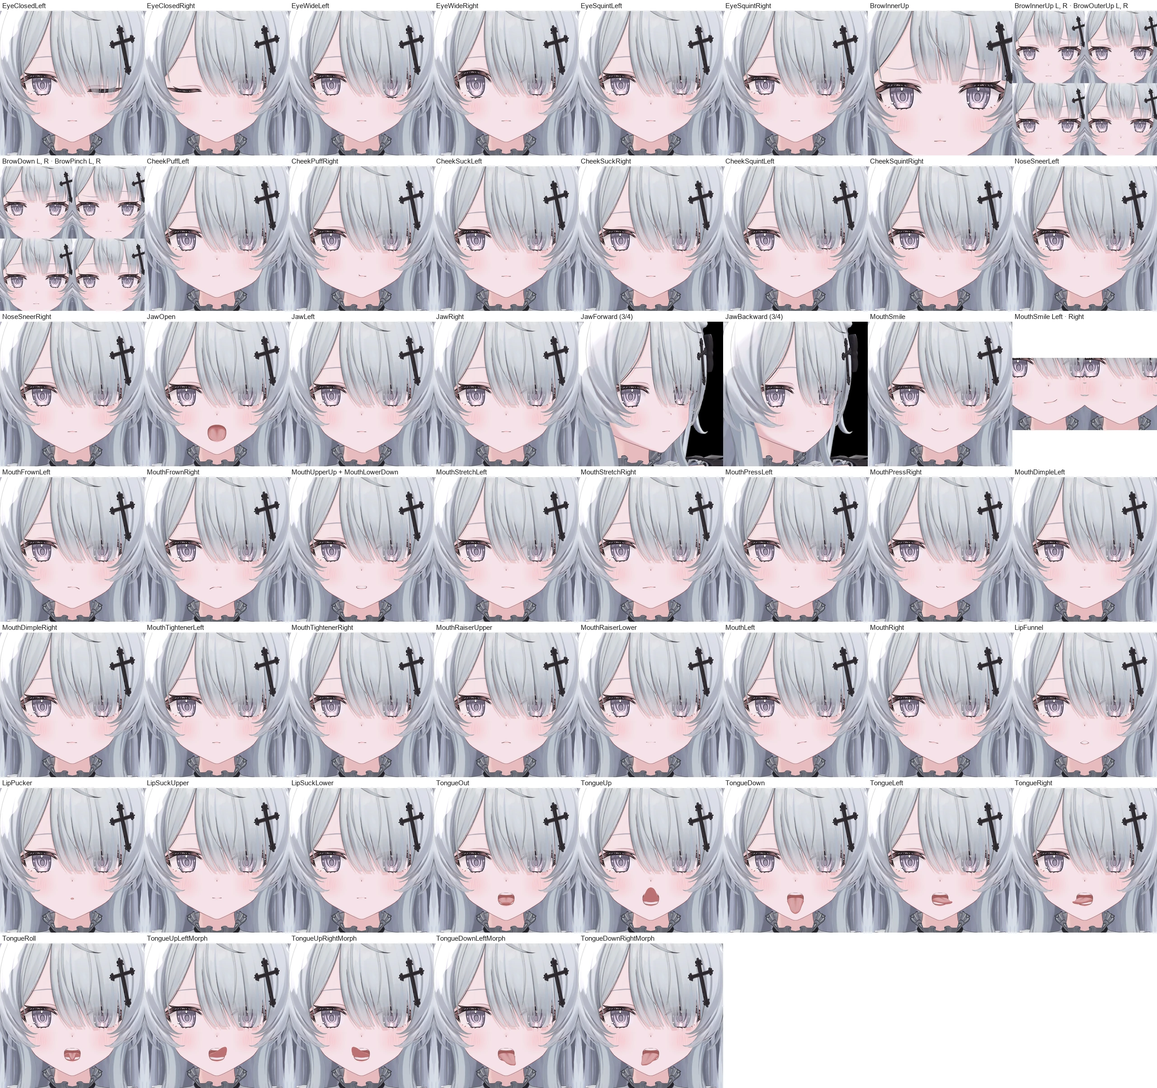
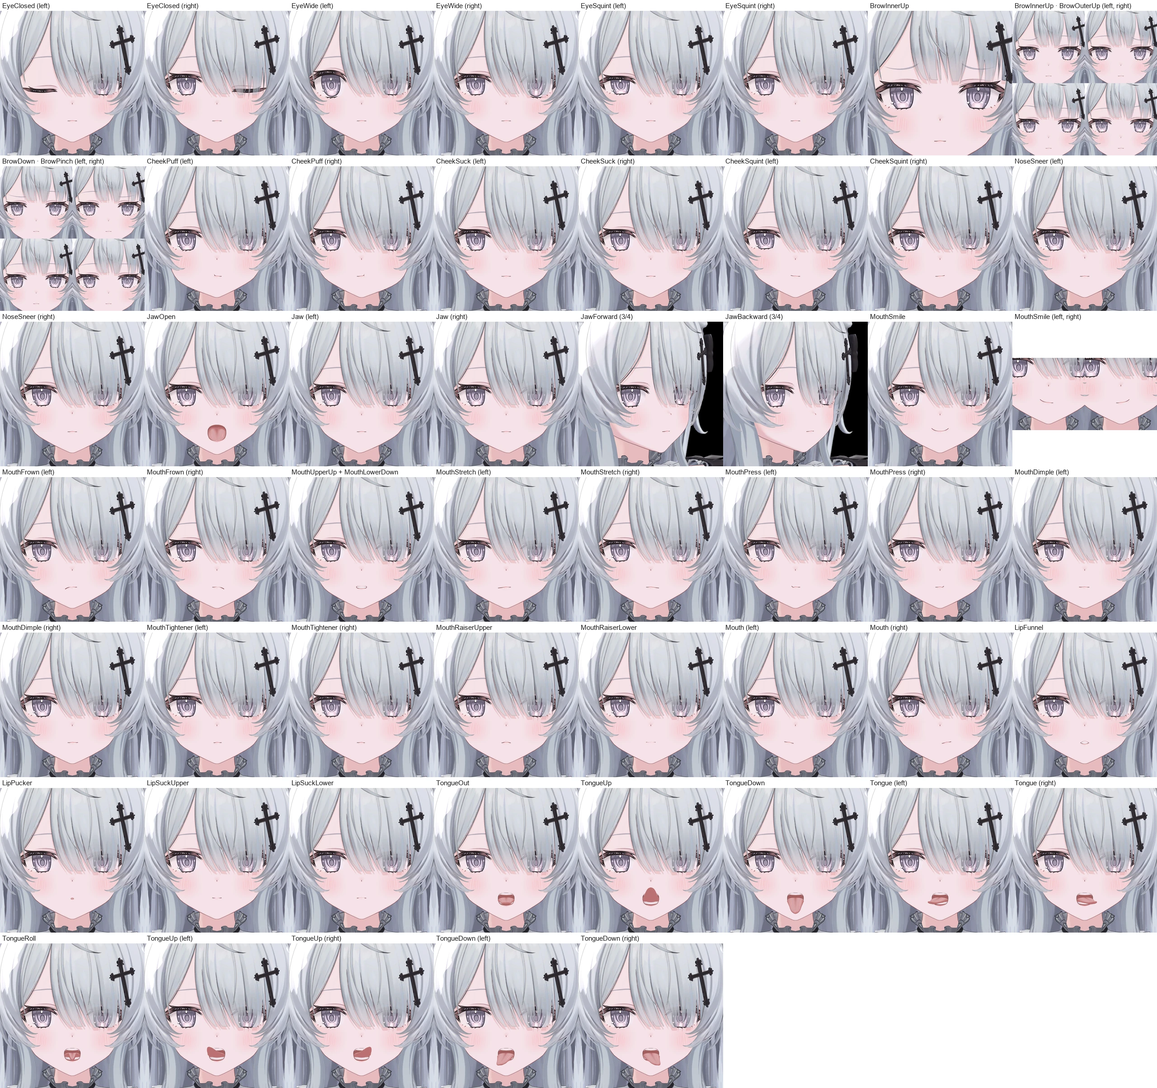
Haruka: expression previews; left/right as seen by viewers

diff --git a/Wendy/README.md b/Wendy/README.md
@@ -153,12 +153,12 @@ Wendy, the VRChat SDK (3.10.6 or newer), VRCFT (Steam, main or beta branch), and
 
 ## Expressions
 
-FT シェイプ (0 → 1 → 0)。 FT shapes, each looping 0 → 1 → 0.
+FT シェイプ (0 → 1 → 0)。左右は見ている人から見た向き。 FT shapes, each looping 0 → 1 → 0. Left and right are as you look at her (her own left shows on your right).
 
 <table>
-<tr><td align="center"><img src="expressions/EyeClosedLeft.webp" width="200"><br><sub>EyeClosedLeft</sub></td><td align="center"><img src="expressions/EyeWideLeft.webp" width="200"><br><sub>EyeWideLeft</sub></td><td align="center"><img src="expressions/EyeSquintLeft.webp" width="200"><br><sub>EyeSquintLeft</sub></td><td align="center"><img src="expressions/Brows_Up.webp" width="200"><br><sub>BrowInnerUp L, R · BrowOuterUp L, R</sub></td></tr>
-<tr><td align="center"><img src="expressions/Brows_DownPinch.webp" width="200"><br><sub>BrowDown L, R · BrowPinch L, R</sub></td><td align="center"><img src="expressions/CheekPuffLeft.webp" width="200"><br><sub>CheekPuffLeft</sub></td><td align="center"><img src="expressions/JawOpen.webp" width="200"><br><sub>JawOpen</sub></td><td align="center"><img src="expressions/JawForward.webp" width="200"><br><sub>JawForward (3/4)</sub></td></tr>
-<tr><td align="center"><img src="expressions/MouthSmile.webp" width="200"><br><sub>MouthSmile</sub></td><td align="center"><img src="expressions/MouthFrownLeft.webp" width="200"><br><sub>MouthFrownLeft</sub></td><td align="center"><img src="expressions/MouthUpperUpLowerDown.webp" width="200"><br><sub>MouthUpperUp + MouthLowerDown</sub></td><td align="center"><img src="expressions/MouthLeft.webp" width="200"><br><sub>MouthLeft</sub></td></tr>
+<tr><td align="center"><img src="expressions/EyeClosedRight.webp" width="200"><br><sub>EyeClosed (left)</sub></td><td align="center"><img src="expressions/EyeWideRight.webp" width="200"><br><sub>EyeWide (left)</sub></td><td align="center"><img src="expressions/EyeSquintRight.webp" width="200"><br><sub>EyeSquint (left)</sub></td><td align="center"><img src="expressions/Brows_Up.webp" width="200"><br><sub>BrowInnerUp · BrowOuterUp (left, right)</sub></td></tr>
+<tr><td align="center"><img src="expressions/Brows_DownPinch.webp" width="200"><br><sub>BrowDown · BrowPinch (left, right)</sub></td><td align="center"><img src="expressions/CheekPuffRight.webp" width="200"><br><sub>CheekPuff (left)</sub></td><td align="center"><img src="expressions/JawOpen.webp" width="200"><br><sub>JawOpen</sub></td><td align="center"><img src="expressions/JawForward.webp" width="200"><br><sub>JawForward (3/4)</sub></td></tr>
+<tr><td align="center"><img src="expressions/MouthSmile.webp" width="200"><br><sub>MouthSmile</sub></td><td align="center"><img src="expressions/MouthFrownRight.webp" width="200"><br><sub>MouthFrown (left)</sub></td><td align="center"><img src="expressions/MouthUpperUpLowerDown.webp" width="200"><br><sub>MouthUpperUp + MouthLowerDown</sub></td><td align="center"><img src="expressions/MouthLeft.webp" width="200"><br><sub>Mouth (right)</sub></td></tr>
 <tr><td align="center"><img src="expressions/LipPucker.webp" width="200"><br><sub>LipPucker</sub></td><td align="center"><img src="expressions/LipFunnel.webp" width="200"><br><sub>LipFunnel</sub></td><td align="center"><img src="expressions/TongueOut.webp" width="200"><br><sub>TongueOut</sub></td><td align="center"><img src="expressions/TongueUp.webp" width="200"><br><sub>TongueUp</sub></td></tr>
 </table>
 
@@ -169,8 +169,8 @@ FT シェイプ (0 → 1 → 0)。 FT shapes, each looping 0 → 1 → 0.
 <details><summary>Eyes (6)</summary>
 
 <table>
-<tr><td align="center"><img src="expressions/EyeClosedLeft.webp" width="200" loading="lazy"><br><sub>EyeClosedLeft</sub></td><td align="center"><img src="expressions/EyeClosedRight.webp" width="200" loading="lazy"><br><sub>EyeClosedRight</sub></td><td align="center"><img src="expressions/EyeWideLeft.webp" width="200" loading="lazy"><br><sub>EyeWideLeft</sub></td><td align="center"><img src="expressions/EyeWideRight.webp" width="200" loading="lazy"><br><sub>EyeWideRight</sub></td></tr>
-<tr><td align="center"><img src="expressions/EyeSquintLeft.webp" width="200" loading="lazy"><br><sub>EyeSquintLeft</sub></td><td align="center"><img src="expressions/EyeSquintRight.webp" width="200" loading="lazy"><br><sub>EyeSquintRight</sub></td></tr>
+<tr><td align="center"><img src="expressions/EyeClosedRight.webp" width="200" loading="lazy"><br><sub>EyeClosed (left)</sub></td><td align="center"><img src="expressions/EyeClosedLeft.webp" width="200" loading="lazy"><br><sub>EyeClosed (right)</sub></td><td align="center"><img src="expressions/EyeWideRight.webp" width="200" loading="lazy"><br><sub>EyeWide (left)</sub></td><td align="center"><img src="expressions/EyeWideLeft.webp" width="200" loading="lazy"><br><sub>EyeWide (right)</sub></td></tr>
+<tr><td align="center"><img src="expressions/EyeSquintRight.webp" width="200" loading="lazy"><br><sub>EyeSquint (left)</sub></td><td align="center"><img src="expressions/EyeSquintLeft.webp" width="200" loading="lazy"><br><sub>EyeSquint (right)</sub></td></tr>
 </table>
 
 </details>
@@ -178,7 +178,7 @@ FT シェイプ (0 → 1 → 0)。 FT shapes, each looping 0 → 1 → 0.
 <details><summary>Brows (3)</summary>
 
 <table>
-<tr><td align="center"><img src="expressions/BrowInnerUp.webp" width="200" loading="lazy"><br><sub>BrowInnerUp</sub></td><td align="center"><img src="expressions/Brows_Up.webp" width="200" loading="lazy"><br><sub>BrowInnerUp L, R · BrowOuterUp L, R</sub></td><td align="center"><img src="expressions/Brows_DownPinch.webp" width="200" loading="lazy"><br><sub>BrowDown L, R · BrowPinch L, R</sub></td></tr>
+<tr><td align="center"><img src="expressions/BrowInnerUp.webp" width="200" loading="lazy"><br><sub>BrowInnerUp</sub></td><td align="center"><img src="expressions/Brows_Up.webp" width="200" loading="lazy"><br><sub>BrowInnerUp · BrowOuterUp (left, right)</sub></td><td align="center"><img src="expressions/Brows_DownPinch.webp" width="200" loading="lazy"><br><sub>BrowDown · BrowPinch (left, right)</sub></td></tr>
 </table>
 
 </details>
@@ -186,8 +186,8 @@ FT シェイプ (0 → 1 → 0)。 FT shapes, each looping 0 → 1 → 0.
 <details><summary>Cheeks and nose (8)</summary>
 
 <table>
-<tr><td align="center"><img src="expressions/CheekPuffLeft.webp" width="200" loading="lazy"><br><sub>CheekPuffLeft</sub></td><td align="center"><img src="expressions/CheekPuffRight.webp" width="200" loading="lazy"><br><sub>CheekPuffRight</sub></td><td align="center"><img src="expressions/CheekSuckLeft.webp" width="200" loading="lazy"><br><sub>CheekSuckLeft</sub></td><td align="center"><img src="expressions/CheekSuckRight.webp" width="200" loading="lazy"><br><sub>CheekSuckRight</sub></td></tr>
-<tr><td align="center"><img src="expressions/CheekSquintLeft.webp" width="200" loading="lazy"><br><sub>CheekSquintLeft</sub></td><td align="center"><img src="expressions/CheekSquintRight.webp" width="200" loading="lazy"><br><sub>CheekSquintRight</sub></td><td align="center"><img src="expressions/NoseSneerLeft.webp" width="200" loading="lazy"><br><sub>NoseSneerLeft</sub></td><td align="center"><img src="expressions/NoseSneerRight.webp" width="200" loading="lazy"><br><sub>NoseSneerRight</sub></td></tr>
+<tr><td align="center"><img src="expressions/CheekPuffRight.webp" width="200" loading="lazy"><br><sub>CheekPuff (left)</sub></td><td align="center"><img src="expressions/CheekPuffLeft.webp" width="200" loading="lazy"><br><sub>CheekPuff (right)</sub></td><td align="center"><img src="expressions/CheekSuckRight.webp" width="200" loading="lazy"><br><sub>CheekSuck (left)</sub></td><td align="center"><img src="expressions/CheekSuckLeft.webp" width="200" loading="lazy"><br><sub>CheekSuck (right)</sub></td></tr>
+<tr><td align="center"><img src="expressions/CheekSquintRight.webp" width="200" loading="lazy"><br><sub>CheekSquint (left)</sub></td><td align="center"><img src="expressions/CheekSquintLeft.webp" width="200" loading="lazy"><br><sub>CheekSquint (right)</sub></td><td align="center"><img src="expressions/NoseSneerRight.webp" width="200" loading="lazy"><br><sub>NoseSneer (left)</sub></td><td align="center"><img src="expressions/NoseSneerLeft.webp" width="200" loading="lazy"><br><sub>NoseSneer (right)</sub></td></tr>
 </table>
 
 </details>
@@ -195,7 +195,7 @@ FT シェイプ (0 → 1 → 0)。 FT shapes, each looping 0 → 1 → 0.
 <details><summary>Jaw (5)</summary>
 
 <table>
-<tr><td align="center"><img src="expressions/JawOpen.webp" width="200" loading="lazy"><br><sub>JawOpen</sub></td><td align="center"><img src="expressions/JawLeft.webp" width="200" loading="lazy"><br><sub>JawLeft</sub></td><td align="center"><img src="expressions/JawRight.webp" width="200" loading="lazy"><br><sub>JawRight</sub></td><td align="center"><img src="expressions/JawForward.webp" width="200" loading="lazy"><br><sub>JawForward (3/4)</sub></td></tr>
+<tr><td align="center"><img src="expressions/JawOpen.webp" width="200" loading="lazy"><br><sub>JawOpen</sub></td><td align="center"><img src="expressions/JawRight.webp" width="200" loading="lazy"><br><sub>Jaw (left)</sub></td><td align="center"><img src="expressions/JawLeft.webp" width="200" loading="lazy"><br><sub>Jaw (right)</sub></td><td align="center"><img src="expressions/JawForward.webp" width="200" loading="lazy"><br><sub>JawForward (3/4)</sub></td></tr>
 <tr><td align="center"><img src="expressions/JawBackward.webp" width="200" loading="lazy"><br><sub>JawBackward (3/4)</sub></td></tr>
 </table>
 
@@ -204,11 +204,11 @@ FT シェイプ (0 → 1 → 0)。 FT shapes, each looping 0 → 1 → 0.
 <details><summary>Mouth (17)</summary>
 
 <table>
-<tr><td align="center"><img src="expressions/MouthSmile.webp" width="200" loading="lazy"><br><sub>MouthSmile</sub></td><td align="center"><img src="expressions/MouthSmile_LR.webp" width="400" loading="lazy"><br><sub>MouthSmile Left · Right</sub></td><td align="center"><img src="expressions/MouthFrownLeft.webp" width="200" loading="lazy"><br><sub>MouthFrownLeft</sub></td><td align="center"><img src="expressions/MouthFrownRight.webp" width="200" loading="lazy"><br><sub>MouthFrownRight</sub></td></tr>
-<tr><td align="center"><img src="expressions/MouthUpperUpLowerDown.webp" width="200" loading="lazy"><br><sub>MouthUpperUp + MouthLowerDown</sub></td><td align="center"><img src="expressions/MouthStretchLeft.webp" width="200" loading="lazy"><br><sub>MouthStretchLeft</sub></td><td align="center"><img src="expressions/MouthStretchRight.webp" width="200" loading="lazy"><br><sub>MouthStretchRight</sub></td><td align="center"><img src="expressions/MouthPressLeft.webp" width="200" loading="lazy"><br><sub>MouthPressLeft</sub></td></tr>
-<tr><td align="center"><img src="expressions/MouthPressRight.webp" width="200" loading="lazy"><br><sub>MouthPressRight</sub></td><td align="center"><img src="expressions/MouthDimpleLeft.webp" width="200" loading="lazy"><br><sub>MouthDimpleLeft</sub></td><td align="center"><img src="expressions/MouthDimpleRight.webp" width="200" loading="lazy"><br><sub>MouthDimpleRight</sub></td><td align="center"><img src="expressions/MouthTightenerLeft.webp" width="200" loading="lazy"><br><sub>MouthTightenerLeft</sub></td></tr>
-<tr><td align="center"><img src="expressions/MouthTightenerRight.webp" width="200" loading="lazy"><br><sub>MouthTightenerRight</sub></td><td align="center"><img src="expressions/MouthRaiserUpper.webp" width="200" loading="lazy"><br><sub>MouthRaiserUpper</sub></td><td align="center"><img src="expressions/MouthRaiserLower.webp" width="200" loading="lazy"><br><sub>MouthRaiserLower</sub></td><td align="center"><img src="expressions/MouthLeft.webp" width="200" loading="lazy"><br><sub>MouthLeft</sub></td></tr>
-<tr><td align="center"><img src="expressions/MouthRight.webp" width="200" loading="lazy"><br><sub>MouthRight</sub></td></tr>
+<tr><td align="center"><img src="expressions/MouthSmile.webp" width="200" loading="lazy"><br><sub>MouthSmile</sub></td><td align="center"><img src="expressions/MouthSmile_LR.webp" width="400" loading="lazy"><br><sub>MouthSmile (left, right)</sub></td><td align="center"><img src="expressions/MouthFrownRight.webp" width="200" loading="lazy"><br><sub>MouthFrown (left)</sub></td><td align="center"><img src="expressions/MouthFrownLeft.webp" width="200" loading="lazy"><br><sub>MouthFrown (right)</sub></td></tr>
+<tr><td align="center"><img src="expressions/MouthUpperUpLowerDown.webp" width="200" loading="lazy"><br><sub>MouthUpperUp + MouthLowerDown</sub></td><td align="center"><img src="expressions/MouthStretchRight.webp" width="200" loading="lazy"><br><sub>MouthStretch (left)</sub></td><td align="center"><img src="expressions/MouthStretchLeft.webp" width="200" loading="lazy"><br><sub>MouthStretch (right)</sub></td><td align="center"><img src="expressions/MouthPressRight.webp" width="200" loading="lazy"><br><sub>MouthPress (left)</sub></td></tr>
+<tr><td align="center"><img src="expressions/MouthPressLeft.webp" width="200" loading="lazy"><br><sub>MouthPress (right)</sub></td><td align="center"><img src="expressions/MouthDimpleRight.webp" width="200" loading="lazy"><br><sub>MouthDimple (left)</sub></td><td align="center"><img src="expressions/MouthDimpleLeft.webp" width="200" loading="lazy"><br><sub>MouthDimple (right)</sub></td><td align="center"><img src="expressions/MouthTightenerRight.webp" width="200" loading="lazy"><br><sub>MouthTightener (left)</sub></td></tr>
+<tr><td align="center"><img src="expressions/MouthTightenerLeft.webp" width="200" loading="lazy"><br><sub>MouthTightener (right)</sub></td><td align="center"><img src="expressions/MouthRaiserUpper.webp" width="200" loading="lazy"><br><sub>MouthRaiserUpper</sub></td><td align="center"><img src="expressions/MouthRaiserLower.webp" width="200" loading="lazy"><br><sub>MouthRaiserLower</sub></td><td align="center"><img src="expressions/MouthRight.webp" width="200" loading="lazy"><br><sub>Mouth (left)</sub></td></tr>
+<tr><td align="center"><img src="expressions/MouthLeft.webp" width="200" loading="lazy"><br><sub>Mouth (right)</sub></td></tr>
 </table>
 
 </details>
@@ -224,9 +224,9 @@ FT シェイプ (0 → 1 → 0)。 FT shapes, each looping 0 → 1 → 0.
 <details><summary>Tongue (10)</summary>
 
 <table>
-<tr><td align="center"><img src="expressions/TongueOut.webp" width="200" loading="lazy"><br><sub>TongueOut</sub></td><td align="center"><img src="expressions/TongueUp.webp" width="200" loading="lazy"><br><sub>TongueUp</sub></td><td align="center"><img src="expressions/TongueDown.webp" width="200" loading="lazy"><br><sub>TongueDown</sub></td><td align="center"><img src="expressions/TongueLeft.webp" width="200" loading="lazy"><br><sub>TongueLeft</sub></td></tr>
-<tr><td align="center"><img src="expressions/TongueRight.webp" width="200" loading="lazy"><br><sub>TongueRight</sub></td><td align="center"><img src="expressions/TongueRoll.webp" width="200" loading="lazy"><br><sub>TongueRoll</sub></td><td align="center"><img src="expressions/TongueUpLeftMorph.webp" width="200" loading="lazy"><br><sub>TongueUpLeftMorph</sub></td><td align="center"><img src="expressions/TongueUpRightMorph.webp" width="200" loading="lazy"><br><sub>TongueUpRightMorph</sub></td></tr>
-<tr><td align="center"><img src="expressions/TongueDownLeftMorph.webp" width="200" loading="lazy"><br><sub>TongueDownLeftMorph</sub></td><td align="center"><img src="expressions/TongueDownRightMorph.webp" width="200" loading="lazy"><br><sub>TongueDownRightMorph</sub></td></tr>
+<tr><td align="center"><img src="expressions/TongueOut.webp" width="200" loading="lazy"><br><sub>TongueOut</sub></td><td align="center"><img src="expressions/TongueUp.webp" width="200" loading="lazy"><br><sub>TongueUp</sub></td><td align="center"><img src="expressions/TongueDown.webp" width="200" loading="lazy"><br><sub>TongueDown</sub></td><td align="center"><img src="expressions/TongueRight.webp" width="200" loading="lazy"><br><sub>Tongue (left)</sub></td></tr>
+<tr><td align="center"><img src="expressions/TongueLeft.webp" width="200" loading="lazy"><br><sub>Tongue (right)</sub></td><td align="center"><img src="expressions/TongueRoll.webp" width="200" loading="lazy"><br><sub>TongueRoll</sub></td><td align="center"><img src="expressions/TongueUpRightMorph.webp" width="200" loading="lazy"><br><sub>TongueUp (left)</sub></td><td align="center"><img src="expressions/TongueUpLeftMorph.webp" width="200" loading="lazy"><br><sub>TongueUp (right)</sub></td></tr>
+<tr><td align="center"><img src="expressions/TongueDownRightMorph.webp" width="200" loading="lazy"><br><sub>TongueDown (left)</sub></td><td align="center"><img src="expressions/TongueDownLeftMorph.webp" width="200" loading="lazy"><br><sub>TongueDown (right)</sub></td></tr>
 </table>
 
 </details>

diff --git a/Haruka/README.md b/Haruka/README.md
@@ -163,4 +163,80 @@ Haruka, the VRChat SDK (3.10.6 or newer), VRCFT, and a face tracker that works w
 
 ## Expressions
 
-Previews coming soon.
+FT シェイプ (0 → 1 → 0)。左右は見ている人から見た向き。 FT shapes, each looping 0 → 1 → 0. Left and right are as you look at her (her own left shows on your right).
+
+<table>
+<tr><td align="center"><img src="expressions/EyeClosedRight.webp" width="200"><br><sub>EyeClosed (left)</sub></td><td align="center"><img src="expressions/EyeWideRight.webp" width="200"><br><sub>EyeWide (left)</sub></td><td align="center"><img src="expressions/EyeSquintRight.webp" width="200"><br><sub>EyeSquint (left)</sub></td><td align="center"><img src="expressions/Brows_Up.webp" width="200"><br><sub>BrowInnerUp · BrowOuterUp (left, right)</sub></td></tr>
+<tr><td align="center"><img src="expressions/Brows_DownPinch.webp" width="200"><br><sub>BrowDown · BrowPinch (left, right)</sub></td><td align="center"><img src="expressions/CheekPuffRight.webp" width="200"><br><sub>CheekPuff (left)</sub></td><td align="center"><img src="expressions/JawOpen.webp" width="200"><br><sub>JawOpen</sub></td><td align="center"><img src="expressions/JawForward.webp" width="200"><br><sub>JawForward (3/4)</sub></td></tr>
+<tr><td align="center"><img src="expressions/MouthSmile.webp" width="200"><br><sub>MouthSmile</sub></td><td align="center"><img src="expressions/MouthFrownRight.webp" width="200"><br><sub>MouthFrown (left)</sub></td><td align="center"><img src="expressions/MouthUpperUpLowerDown.webp" width="200"><br><sub>MouthUpperUp + MouthLowerDown</sub></td><td align="center"><img src="expressions/MouthLeft.webp" width="200"><br><sub>Mouth (right)</sub></td></tr>
+<tr><td align="center"><img src="expressions/LipPucker.webp" width="200"><br><sub>LipPucker</sub></td><td align="center"><img src="expressions/LipFunnel.webp" width="200"><br><sub>LipFunnel</sub></td><td align="center"><img src="expressions/TongueOut.webp" width="200"><br><sub>TongueOut</sub></td><td align="center"><img src="expressions/TongueUp.webp" width="200"><br><sub>TongueUp</sub></td></tr>
+</table>
+
+### All shapes / 全シェイプ
+
+![all shapes](expressions/_all_shapes.webp)
+
+<details><summary>Eyes (6)</summary>
+
+<table>
+<tr><td align="center"><img src="expressions/EyeClosedRight.webp" width="200" loading="lazy"><br><sub>EyeClosed (left)</sub></td><td align="center"><img src="expressions/EyeClosedLeft.webp" width="200" loading="lazy"><br><sub>EyeClosed (right)</sub></td><td align="center"><img src="expressions/EyeWideRight.webp" width="200" loading="lazy"><br><sub>EyeWide (left)</sub></td><td align="center"><img src="expressions/EyeWideLeft.webp" width="200" loading="lazy"><br><sub>EyeWide (right)</sub></td></tr>
+<tr><td align="center"><img src="expressions/EyeSquintRight.webp" width="200" loading="lazy"><br><sub>EyeSquint (left)</sub></td><td align="center"><img src="expressions/EyeSquintLeft.webp" width="200" loading="lazy"><br><sub>EyeSquint (right)</sub></td></tr>
+</table>
+
+</details>
+
+<details><summary>Brows (3)</summary>
+
+<table>
+<tr><td align="center"><img src="expressions/BrowInnerUp.webp" width="200" loading="lazy"><br><sub>BrowInnerUp</sub></td><td align="center"><img src="expressions/Brows_Up.webp" width="200" loading="lazy"><br><sub>BrowInnerUp · BrowOuterUp (left, right)</sub></td><td align="center"><img src="expressions/Brows_DownPinch.webp" width="200" loading="lazy"><br><sub>BrowDown · BrowPinch (left, right)</sub></td></tr>
+</table>
+
+</details>
+
+<details><summary>Cheeks and nose (8)</summary>
+
+<table>
+<tr><td align="center"><img src="expressions/CheekPuffRight.webp" width="200" loading="lazy"><br><sub>CheekPuff (left)</sub></td><td align="center"><img src="expressions/CheekPuffLeft.webp" width="200" loading="lazy"><br><sub>CheekPuff (right)</sub></td><td align="center"><img src="expressions/CheekSuckRight.webp" width="200" loading="lazy"><br><sub>CheekSuck (left)</sub></td><td align="center"><img src="expressions/CheekSuckLeft.webp" width="200" loading="lazy"><br><sub>CheekSuck (right)</sub></td></tr>
+<tr><td align="center"><img src="expressions/CheekSquintRight.webp" width="200" loading="lazy"><br><sub>CheekSquint (left)</sub></td><td align="center"><img src="expressions/CheekSquintLeft.webp" width="200" loading="lazy"><br><sub>CheekSquint (right)</sub></td><td align="center"><img src="expressions/NoseSneerRight.webp" width="200" loading="lazy"><br><sub>NoseSneer (left)</sub></td><td align="center"><img src="expressions/NoseSneerLeft.webp" width="200" loading="lazy"><br><sub>NoseSneer (right)</sub></td></tr>
+</table>
+
+</details>
+
+<details><summary>Jaw (5)</summary>
+
+<table>
+<tr><td align="center"><img src="expressions/JawOpen.webp" width="200" loading="lazy"><br><sub>JawOpen</sub></td><td align="center"><img src="expressions/JawRight.webp" width="200" loading="lazy"><br><sub>Jaw (left)</sub></td><td align="center"><img src="expressions/JawLeft.webp" width="200" loading="lazy"><br><sub>Jaw (right)</sub></td><td align="center"><img src="expressions/JawForward.webp" width="200" loading="lazy"><br><sub>JawForward (3/4)</sub></td></tr>
+<tr><td align="center"><img src="expressions/JawBackward.webp" width="200" loading="lazy"><br><sub>JawBackward (3/4)</sub></td></tr>
+</table>
+
+</details>
+
+<details><summary>Mouth (17)</summary>
+
+<table>
+<tr><td align="center"><img src="expressions/MouthSmile.webp" width="200" loading="lazy"><br><sub>MouthSmile</sub></td><td align="center"><img src="expressions/MouthSmile_LR.webp" width="400" loading="lazy"><br><sub>MouthSmile (left, right)</sub></td><td align="center"><img src="expressions/MouthFrownRight.webp" width="200" loading="lazy"><br><sub>MouthFrown (left)</sub></td><td align="center"><img src="expressions/MouthFrownLeft.webp" width="200" loading="lazy"><br><sub>MouthFrown (right)</sub></td></tr>
+<tr><td align="center"><img src="expressions/MouthUpperUpLowerDown.webp" width="200" loading="lazy"><br><sub>MouthUpperUp + MouthLowerDown</sub></td><td align="center"><img src="expressions/MouthStretchRight.webp" width="200" loading="lazy"><br><sub>MouthStretch (left)</sub></td><td align="center"><img src="expressions/MouthStretchLeft.webp" width="200" loading="lazy"><br><sub>MouthStretch (right)</sub></td><td align="center"><img src="expressions/MouthPressRight.webp" width="200" loading="lazy"><br><sub>MouthPress (left)</sub></td></tr>
+<tr><td align="center"><img src="expressions/MouthPressLeft.webp" width="200" loading="lazy"><br><sub>MouthPress (right)</sub></td><td align="center"><img src="expressions/MouthDimpleRight.webp" width="200" loading="lazy"><br><sub>MouthDimple (left)</sub></td><td align="center"><img src="expressions/MouthDimpleLeft.webp" width="200" loading="lazy"><br><sub>MouthDimple (right)</sub></td><td align="center"><img src="expressions/MouthTightenerRight.webp" width="200" loading="lazy"><br><sub>MouthTightener (left)</sub></td></tr>
+<tr><td align="center"><img src="expressions/MouthTightenerLeft.webp" width="200" loading="lazy"><br><sub>MouthTightener (right)</sub></td><td align="center"><img src="expressions/MouthRaiserUpper.webp" width="200" loading="lazy"><br><sub>MouthRaiserUpper</sub></td><td align="center"><img src="expressions/MouthRaiserLower.webp" width="200" loading="lazy"><br><sub>MouthRaiserLower</sub></td><td align="center"><img src="expressions/MouthRight.webp" width="200" loading="lazy"><br><sub>Mouth (left)</sub></td></tr>
+<tr><td align="center"><img src="expressions/MouthLeft.webp" width="200" loading="lazy"><br><sub>Mouth (right)</sub></td></tr>
+</table>
+
+</details>
+
+<details><summary>Lips (4)</summary>
+
+<table>
+<tr><td align="center"><img src="expressions/LipFunnel.webp" width="200" loading="lazy"><br><sub>LipFunnel</sub></td><td align="center"><img src="expressions/LipPucker.webp" width="200" loading="lazy"><br><sub>LipPucker</sub></td><td align="center"><img src="expressions/LipSuckUpper.webp" width="200" loading="lazy"><br><sub>LipSuckUpper</sub></td><td align="center"><img src="expressions/LipSuckLower.webp" width="200" loading="lazy"><br><sub>LipSuckLower</sub></td></tr>
+</table>
+
+</details>
+
+<details><summary>Tongue (10)</summary>
+
+<table>
+<tr><td align="center"><img src="expressions/TongueOut.webp" width="200" loading="lazy"><br><sub>TongueOut</sub></td><td align="center"><img src="expressions/TongueUp.webp" width="200" loading="lazy"><br><sub>TongueUp</sub></td><td align="center"><img src="expressions/TongueDown.webp" width="200" loading="lazy"><br><sub>TongueDown</sub></td><td align="center"><img src="expressions/TongueRight.webp" width="200" loading="lazy"><br><sub>Tongue (left)</sub></td></tr>
+<tr><td align="center"><img src="expressions/TongueLeft.webp" width="200" loading="lazy"><br><sub>Tongue (right)</sub></td><td align="center"><img src="expressions/TongueRoll.webp" width="200" loading="lazy"><br><sub>TongueRoll</sub></td><td align="center"><img src="expressions/TongueUpRightMorph.webp" width="200" loading="lazy"><br><sub>TongueUp (left)</sub></td><td align="center"><img src="expressions/TongueUpLeftMorph.webp" width="200" loading="lazy"><br><sub>TongueUp (right)</sub></td></tr>
+<tr><td align="center"><img src="expressions/TongueDownRightMorph.webp" width="200" loading="lazy"><br><sub>TongueDown (left)</sub></td><td align="center"><img src="expressions/TongueDownLeftMorph.webp" width="200" loading="lazy"><br><sub>TongueDown (right)</sub></td></tr>
+</table>
+
+</details>
